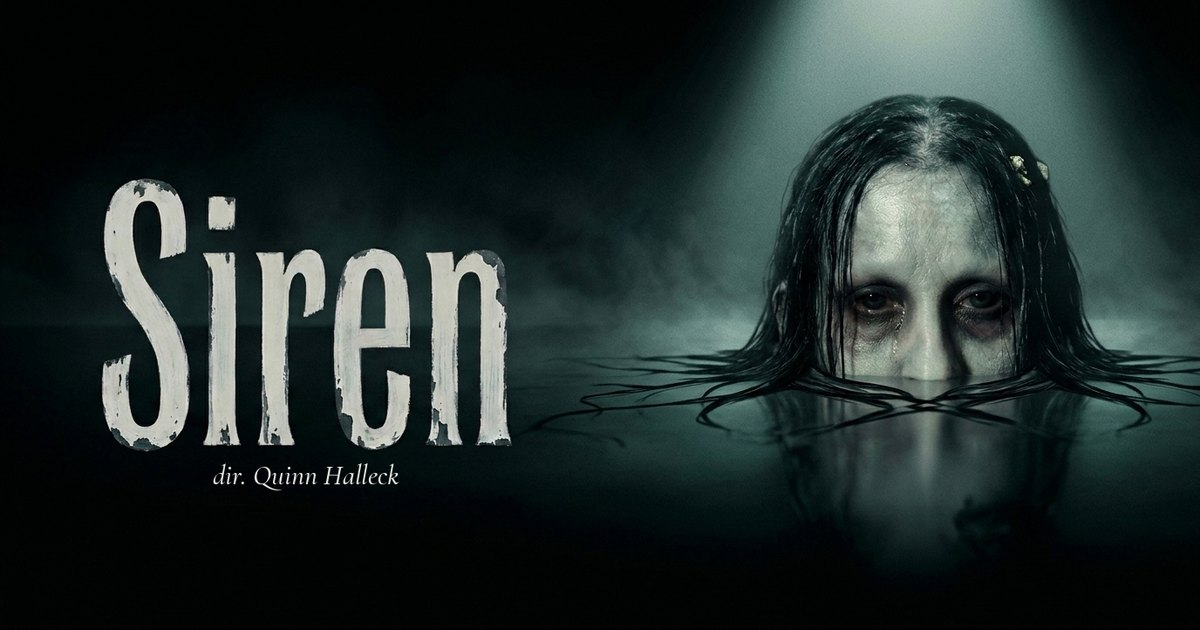
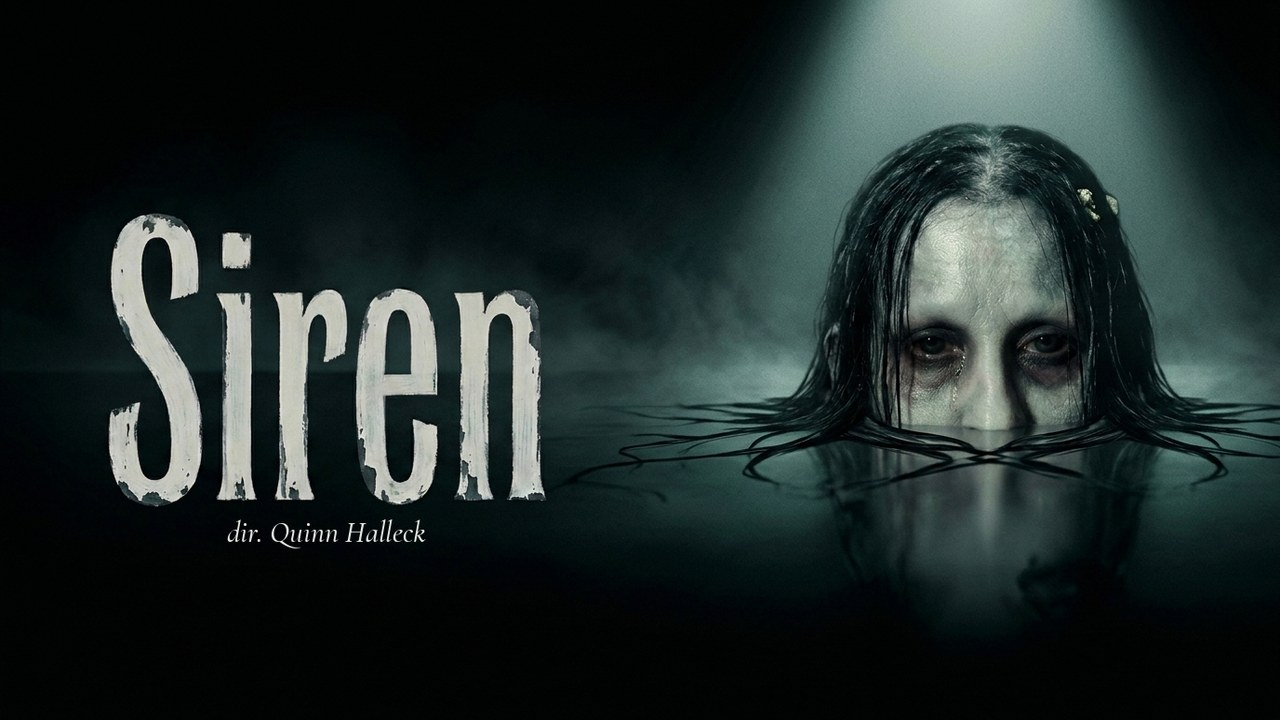
Share links point to per-film pages; Siren share card uses approved 16:9 poster, title 'Siren — dir. Quinn Halleck'

diff --git a/index.html b/index.html
@@ -12,7 +12,7 @@
 <link rel="icon" href="favicon.svg" type="image/svg+xml">
 <link rel="preconnect" href="https://fonts.googleapis.com">
 <link href="https://fonts.googleapis.com/css2?family=Manrope:wght@500;600;700;800&display=swap" rel="stylesheet">
-<link rel="stylesheet" href="styles.css?v=202611031722">
+<link rel="stylesheet" href="styles.css?v=202611042233">
 </head>
 <body>
 <div class="wrap">
@@ -80,7 +80,7 @@
   </div>
 </div>
 
-<script src="data.js?v=202611031722"></script>
+<script src="data.js?v=202611042233"></script>
 <script>
 (function(){
   const T=window.QH_TITLES, CATS=window.QH_CATS, byId={}; T.forEach(t=>byId[t.slug]=t);
@@ -173,7 +173,7 @@
     const more=T.filter(x=>x.slug!==t.slug&&x.cats.some(c=>t.cats.includes(c))).slice(0,4);
     document.getElementById('mMore').innerHTML='<span style="align-self:center;font-size:12px;font-weight:700;letter-spacing:.12em;text-transform:uppercase;color:#8d86a3;margin-right:6px">More like this</span>'+more.map(m=>`<button class="chip" data-s="${m.slug}">${m.title}</button>`).join('');
     document.getElementById('mMore').querySelectorAll('button').forEach(b=>b.onclick=()=>openModal(b.dataset.s));
-    document.getElementById('mShare').onclick=async()=>{ const url=location.origin+location.pathname+'#'+t.slug; try{ if(navigator.share) await navigator.share({title:t.title,url}); else { await navigator.clipboard.writeText(url); document.getElementById('mShare').textContent='Link copied'; setTimeout(()=>document.getElementById('mShare').textContent='Share',1500);} }catch(e){} };
+    document.getElementById('mShare').onclick=async()=>{ const url=location.origin+'/'+t.slug+'/'; try{ if(navigator.share) await navigator.share({title:t.title,url}); else { await navigator.clipboard.writeText(url); document.getElementById('mShare').textContent='Link copied'; setTimeout(()=>document.getElementById('mShare').textContent='Share',1500);} }catch(e){} };
     shade.classList.add('open'); shade.setAttribute('aria-hidden','false'); document.body.style.overflow='hidden'; document.querySelector('.sheet').scrollTop=0;
   }
   function closeModal(){ shade.classList.remove('open'); shade.setAttribute('aria-hidden','true'); document.body.style.overflow=''; player.innerHTML=''; }

diff --git a/siren/index.html b/siren/index.html
@@ -3,20 +3,20 @@
 <head>
 <meta charset="utf-8">
 <meta name="viewport" content="width=device-width, initial-scale=1">
-<title>Siren — Quinn Halleck</title>
+<title>Siren — dir. Quinn Halleck</title>
 <meta name="description" content="A dead engine, a storm, and a sound coming from below the waterline. Nobody turns the lights back on.">
 <meta property="og:type" content="video.movie">
 <meta property="og:site_name" content="Quinn Halleck">
-<meta property="og:title" content="Siren">
+<meta property="og:title" content="Siren — dir. Quinn Halleck">
 <meta property="og:description" content="A dead engine, a storm, and a sound coming from below the waterline. Nobody turns the lights back on.">
-<meta property="og:image" content="https://www.quinnhalleck.com/assets/og/siren.jpg">
-<meta property="og:image:width" content="1200">
-<meta property="og:image:height" content="630">
+<meta property="og:image" content="https://www.quinnhalleck.com/assets/og/siren.jpg?v=2">
+<meta property="og:image:width" content="1280">
+<meta property="og:image:height" content="720">
 <meta property="og:url" content="https://www.quinnhalleck.com/siren/">
 <meta name="twitter:card" content="summary_large_image">
-<meta name="twitter:title" content="Siren">
+<meta name="twitter:title" content="Siren — dir. Quinn Halleck">
 <meta name="twitter:description" content="A dead engine, a storm, and a sound coming from below the waterline. Nobody turns the lights back on.">
-<meta name="twitter:image" content="https://www.quinnhalleck.com/assets/og/siren.jpg">
+<meta name="twitter:image" content="https://www.quinnhalleck.com/assets/og/siren.jpg?v=2">
 <link rel="canonical" href="https://www.quinnhalleck.com/siren/">
 <link rel="icon" href="/favicon.svg" type="image/svg+xml">
 <meta http-equiv="refresh" content="0; url=/#siren">

diff --git a/about.html b/about.html
@@ -8,7 +8,7 @@
 <link rel="icon" href="favicon.svg" type="image/svg+xml">
 <link rel="preconnect" href="https://fonts.googleapis.com">
 <link href="https://fonts.googleapis.com/css2?family=Manrope:wght@500;600;700;800&display=swap" rel="stylesheet">
-<link rel="stylesheet" href="styles.css?v=202611031722">
+<link rel="stylesheet" href="styles.css?v=202611042233">
 <style>
 .hero{padding:72px 56px 24px;display:flex;flex-direction:column;align-items:center;text-align:center;gap:18px;max-width:900px;margin:0 auto}
 .eyebrow{display:inline-flex;align-items:center;gap:10px;font-size:12px;font-weight:700;letter-spacing:.16em;text-transform:uppercase;color:var(--accent)}

diff --git a/404.html b/404.html
@@ -8,7 +8,7 @@
 <link rel="icon" href="/favicon.svg" type="image/svg+xml">
 <link rel="preconnect" href="https://fonts.googleapis.com">
 <link href="https://fonts.googleapis.com/css2?family=Manrope:wght@600;700;800&display=swap" rel="stylesheet">
-<link rel="stylesheet" href="/styles.css?v=202611031722">
+<link rel="stylesheet" href="/styles.css?v=202611042233">
 <style>
 .nf{min-height:70vh;display:flex;flex-direction:column;align-items:center;justify-content:center;text-align:center;gap:18px;padding:64px 24px}
 .nf .code{font-size:120px;line-height:1;font-weight:800;letter-spacing:-.06em;color:var(--accent);display:flex;align-items:center;gap:10px}
